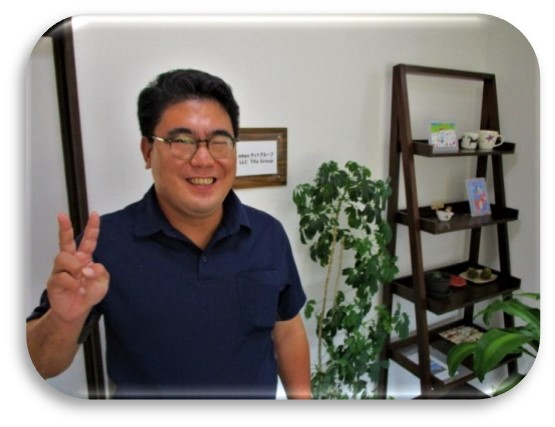
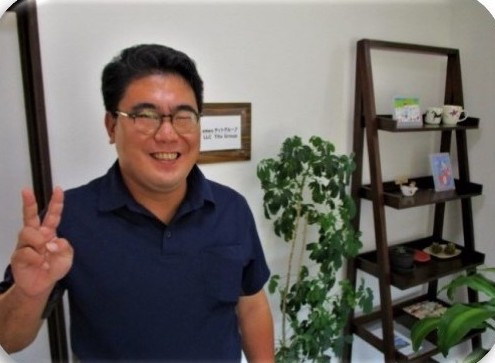
add

diff --git a/components/layout/users-voices-section.tsx b/components/layout/users-voices-section.tsx
@@ -3,6 +3,7 @@
 import Image from "next/image"
 import { useState } from "react"
 import { Button } from "../ui/button"
+import Link from "next/link"
 
 export const UsersVoices = () => {
   const [toggle, setToggle] = useState(false)
@@ -10,18 +11,23 @@ export const UsersVoices = () => {
     <div className="max-w-5xl mx-auto">
       <div className='text-2xl font-bold tracking-tighter sm:text-3xl text-center'>利用者の声</div>
       <div className="md:grid md:grid-cols-2 justify-center mt-10 md:space-x-10 mx-6">
-        <Image src="/image/landing/IMG_1168.JPG" alt="user voice1" className="object-cover rounded-lg" width={600} height={400} />
+        <Image src="/image/landing/user-voice1.jpg" alt="user voice1" className="object-cover rounded-3xl mx-auto" width={600} height={400} />
         <div className="space-y-8">
-          <div className="text-center mt-6">
-            {/* <div className="md:tracking-widest">や&nbsp;&nbsp; ま&nbsp;&nbsp; う&nbsp;&nbsp; ち&nbsp;&nbsp;&nbsp; け&nbsp;&nbsp; ん&nbsp;&nbsp; す&nbsp;&nbsp; け</div> */}
-            <div className="text-2xl md:text-5xl lg:text-6xl">Y&nbsp;. K<span className="text-lg md:text-2xl lg:text-4xl">さん</span></div>
+          <div className="flex-col justify-center md:justify-start mt-6">
+            <div className="hidden md:block md:tracking-widest">や&nbsp;&nbsp;ま&nbsp;&nbsp;う&nbsp;&nbsp;ち&nbsp;&nbsp;&nbsp;け&nbsp;&nbsp;ん&nbsp;&nbsp;す&nbsp;&nbsp;け</div>
+            <div className="md:hidden">やま&nbsp;うち&nbsp;&nbsp;けん&nbsp;すけ</div>
+            <div className="text-3xl md:text-5xl lg:text-6xl">山内&nbsp; 健資 <span className="text-lg md:text-2xl lg:text-4xl">さん</span></div>
+            {/* <div className="text-2xl md:text-5xl lg:text-6xl">Y&nbsp;. K<span className="text-lg md:text-2xl lg:text-4xl">さん</span></div> */}
           </div>
           <div className="mx-6">
             この施設は、その日の一人ひとりの体調や状況に合わせて声けけやアドバイスをしてくださり本当にやりやすい環境
             だなと感じています。<br />
             あと、自分の将来の夢・希望に対して一緒に親身になって考えてくださいます。<br />
 
-            {toggle ?
+            <Link href="https://drive.google.com/file/d/1pGZuDbDux7hX2lkiR9go_Q12rVlOHlZ0/view?usp=sharing">
+              <Button variant="secondary" className="my-2">続きを読む</Button>
+            </Link>
+            {/* {toggle ?
               <>
                 <span>
                   この職場に入って一番驚いたことは、何かをするたびに『ありがとうございます』と言われることです。<br />
@@ -32,7 +38,8 @@ export const UsersVoices = () => {
                 <div></div>
                 <Button onClick={() => setToggle(prev => !prev)} className="my-2">閉じる</Button>
               </>
-              : <Button variant="secondary" onClick={() => setToggle(prev => !prev)} className="my-2">続きを読む</Button>}
+              : <Button variant="secondary" onClick={() => setToggle(prev => !prev)} className="my-2">続きを読む</Button>
+            } */}
 
           </div>
         </div>

diff --git a/app/(landing)/business/page.tsx b/app/(landing)/business/page.tsx
@@ -1,4 +1,6 @@
 import { CardTitle, CardHeader, CardContent, Card } from "@/components/ui/card"
+import { ExternalLink } from "lucide-react"
+import Image from "next/image"
 import Link from "next/link"
 
 export default function BusinessPage() {
@@ -51,11 +53,18 @@ export default function BusinessPage() {
             </div>
           </div>
         </section>
-        <section className="px-6 py-12" id="projects">
-          <div className="max-w-3xl mx-auto space-y-4">
-            <h2 className="text-2xl font-bold">アクセス</h2>
-            {/* ここにgoogle map入れる */}
-            <div>ここにgoogle map入れる</div>
+        <section className="w-full flex justify-center px-6 py-12" id="projects">
+          <div className="max-w-4xl mx-auto">
+            <h2 className="text-center mb-4 text-2xl font-bold tracking-tighter sm:text-3xl">事業所MAP</h2>
+            <Link
+              href="https://www.google.co.jp/maps/place/%E3%80%92754-0893+%E5%B1%B1%E5%8F%A3%E7%9C%8C%E5%B1%B1%E5%8F%A3%E5%B8%82%E7%A7%8B%E7%A9%82%E4%BA%8C%E5%B3%B6%EF%BC%91%EF%BC%99%EF%BC%91%EF%BC%91/@34.0383223,131.4122046,15.3z/data=!4m6!3m5!1s0x354485c37911ef59:0xd39645131a23a202!8m2!3d34.0389417!4d131.4166068!16s%2Fg%2F11c193m3_1?hl=ja&entry=ttu"
+              className="text-blue-600 text-lg space-x-2 mb-2 flex"
+            >
+              <div>合同会社ティトグループ</div>
+              <ExternalLink />
+            </Link>
+            <Image src="/image/map2.png" alt="map" width={1000} height={500} className="w-[400px] rounded-2xl border shadow-md" />
+
           </div>
         </section>
         <section className="px-6 py-12 bg-gray-50" id="about">
@@ -63,12 +72,12 @@ export default function BusinessPage() {
             <h2 className="text-xl font-bold">のんびりいこう倫理綱領</h2>
             <div className="flex">
               <div>PDF</div>{" "}
-              <Link href="https://drive.google.com/file/d/1uSD3rLFTWGGMBuo5eRpXNd5FYm7Q44En/view?usp=sharing" className=" text-blue-600">のんびりいこう倫理綱領</Link>
+              <Link href="https://drive.google.com/file/d/1OXDeFTJ7kizN6nqBd-T6w5y1RDF9o435/view?usp=sharing" className=" text-blue-600">のんびりいこう倫理綱領</Link>
             </div>
             <h2 className="text-xl font-bold">のんびりいこう職員行動規範</h2>
             <div className="flex">
               <div>PDF</div>{" "}
-              <Link href="/#" className=" text-blue-600">のんびりいこう職員行動規範</Link>
+              <Link href="https://drive.google.com/file/d/1JHvfxWzz0mtx2Z8PUhHpcXdxKheABXZ1/view?usp=sharing" className=" text-blue-600">のんびりいこう職員行動規範</Link>
             </div>
           </div>
         </section>
